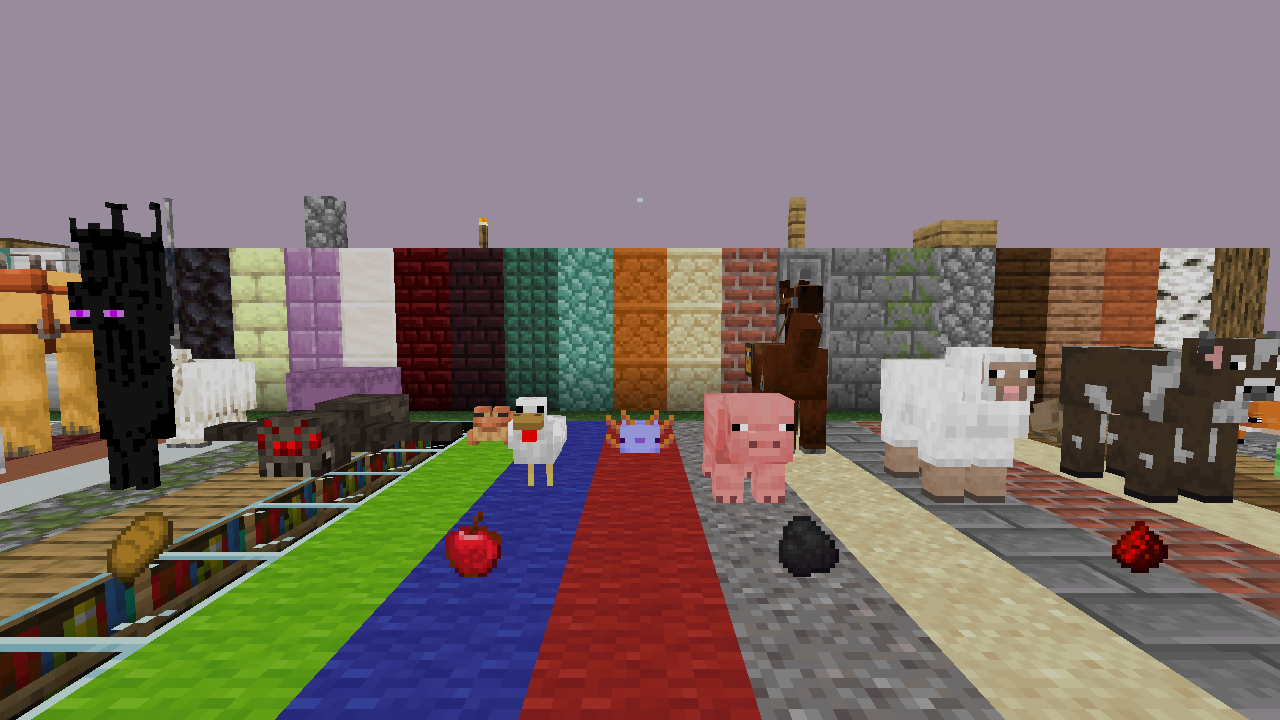
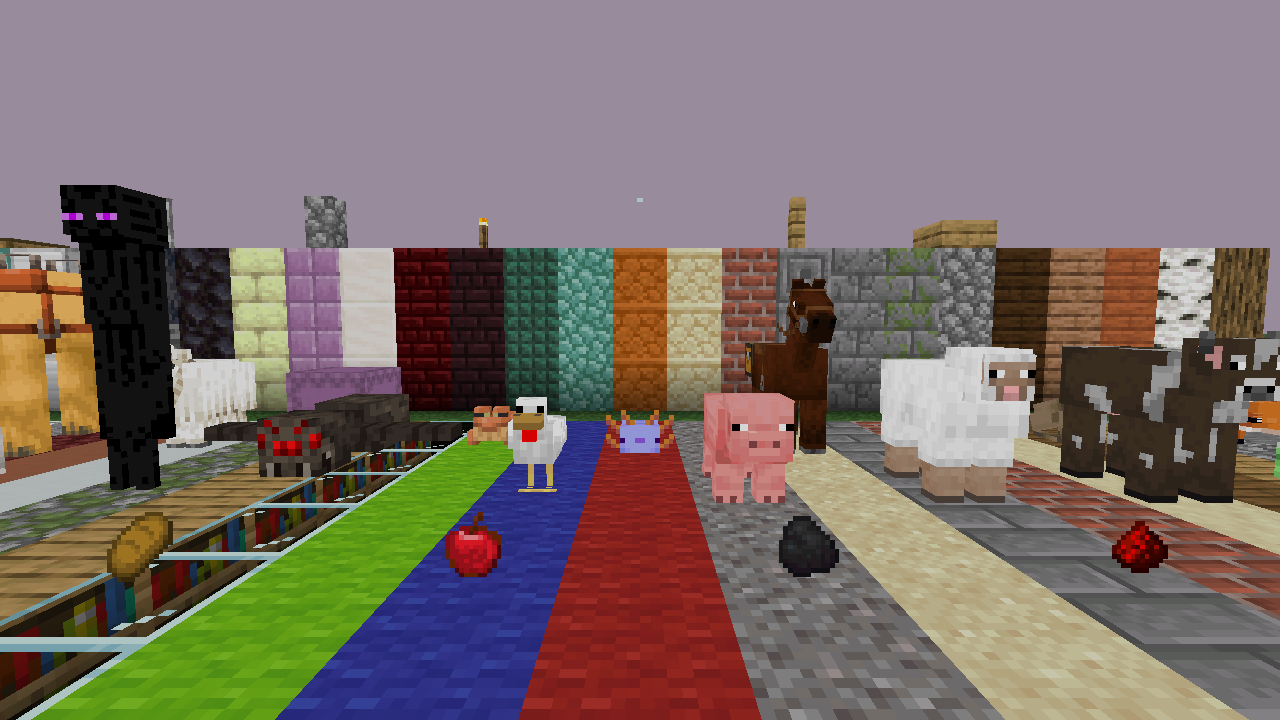
fix(entities): attach horse and enderman heads
Two rotation fields were treated identically, applying each bone's
rotation to its own cubes and never to descendants. They mean different
things:

- bind_pose_rotation reorients a bone's own cubes; descendants are
  authored in the final pose, so it must not propagate. A quadruped's
  body carries [90,0,0] with its head/legs already placed for it;
  propagating tore every quadruped apart.
- rotation is a rest orientation that descendants are authored relative
  to, so it must propagate. The horse's neck tilts 30 deg and its head
  and muzzle were left floating off the neck.

Apply bind_pose_rotation to the bone's own cubes, and carry a chain of
rotation down to each bone's cubes.

The enderman authors its head cube 14 units below the body and lifts it
with animation.enderman.base_pose, an always-on animation we do not run;
its hat already sits at the lifted height. staticPoseOffset nudges that
one bone so the head lands on the body.

Refresh the README arena frames.

diff --git a/src/entityModels.js b/src/entityModels.js
@@ -345,6 +345,15 @@ function loadEntityTexture(texPath) {
 // drawn. Vanilla picks a layer via query.is_sheared, which we don't have.
 const extraGeometryKeys = { sheep: ['sheared'] }
 
+// Some models' static bind pose is not usable on its own: it is corrected by an
+// always-on base-pose animation, which this renderer does not run. Nudge the
+// listed bones' cubes by a model-space offset that reproduces that animation.
+// The enderman authors its head cube 14 units below the body and lifts it with
+// animation.enderman.base_pose; its hat cube already sits at the lifted height.
+const staticPoseOffset = {
+  enderman: { head: [0, 14, 0] }
+}
+
 // Some entity defs key their textures by variant/profession with no "default"
 // (cat, fox, horse, llama, ...). mineflayer doesn't expose the variant, so pick
 // one deterministically: prefer "default", else the first key as authored. Any
@@ -407,6 +416,7 @@ function buildEntityModel(name) {
   const texture = loadEntityTexture(texPath)
   if (!texture) return null
 
+  const poseOffset = staticPoseOffset[base] || staticPoseOffset[name]
   const positions = []
   const uvs = []
   const indices = []
@@ -415,20 +425,41 @@ function buildEntityModel(name) {
   for (const { geometry } of layers) {
     const texW = geometry.texturewidth || 64
     const texH = geometry.textureheight || 64
+    const boneByName = new Map()
+    for (const b of geometry.bones) boneByName.set(b.name.toLowerCase(), b)
 
     for (const bone of geometry.bones) {
       if (bone.neverRender || !bone.cubes) continue
-      // bind-pose / static rotations apply to this bone's own cubes only;
-      // cube pivots in these models are already laid out for the final pose,
-      // so children do not inherit the rotation (matches how the flat static
-      // geometry is authored)
+      const off = poseOffset && poseOffset[bone.name]
       const pivot = bone.pivot || [0, 0, 0]
-      const boneEuler = bone.bind_pose_rotation
+      // Two different rotation fields, two different meanings:
+      // - bind_pose_rotation reorients a bone's own cubes; descendants are
+      //   authored in the final pose, so it must NOT propagate (a quadruped's
+      //   body carries [90,0,0] and its head/legs are already placed for it).
+      // - rotation is the bone's rest orientation and descendants are authored
+      //   relative to it, so it DOES propagate (the horse's neck tilts 30 deg
+      //   and its head/muzzle must follow, or they float off the neck).
+      const bindEuler = bone.bind_pose_rotation
         ? eulerFromDegrees(bone.bind_pose_rotation)
-        : bone.rotation && typeof bone.rotation[0] === 'number'
-          ? eulerFromDegrees(bone.rotation)
-          : null
-      const boneMat = boneEuler ? matFromEuler(boneEuler) : null
+        : null
+      const bindMat = bindEuler ? matFromEuler(bindEuler) : null
+      // `rotation` chain from this bone up to the root, applied innermost-first.
+      const chain = []
+      for (let cur = bone; cur;) {
+        if (
+          !cur.bind_pose_rotation &&
+          cur.rotation &&
+          typeof cur.rotation[0] === 'number'
+        ) {
+          chain.push({
+            mat: matFromEuler(eulerFromDegrees(cur.rotation)),
+            pivot: cur.pivot || [0, 0, 0]
+          })
+        }
+        const parent = cur.parent && boneByName.get(cur.parent.toLowerCase())
+        if (!parent || parent === cur) break
+        cur = parent
+      }
       for (const cube of bone.cubes) {
         // cubes without a uv (leash_knot, tripod_camera) are drawn through a
         // render controller/material, not the texture sheet — skip them
@@ -462,17 +493,29 @@ function buildEntityModel(name) {
               cube.origin[2] +
               pos[2] * cube.size[2] +
               (pos[2] ? inflate : -inflate)
+            if (off) {
+              x += off[0]
+              y += off[1]
+              z += off[2]
+            }
             if (cubeMat) {
               rotateAround(cubeMat, cubePivot, x, y, z, tmp)
               x = tmp[0]
               y = tmp[1]
               z = tmp[2]
             }
-            if (boneMat) {
-              rotateAround(boneMat, pivot, x, y, z, tmp)
+            if (bindMat) {
+              rotateAround(bindMat, pivot, x, y, z, tmp)
               x = tmp[0]
               y = tmp[1]
               z = tmp[2]
+            } else {
+              for (const step of chain) {
+                rotateAround(step.mat, step.pivot, x, y, z, tmp)
+                x = tmp[0]
+                y = tmp[1]
+                z = tmp[2]
+              }
             }
             // mirror x, scale to block units
             positions.push(-x / 16, y / 16, z / 16)

diff --git a/docs/architecture.md b/docs/architecture.md
@@ -85,13 +85,18 @@ cached, and invalidated on block changes and chunk unloads.
 ## Entities
 
 - Mobs and the player use original **Bedrock** geometry, entity definitions and
-  textures from `bedrock-samples`. Only the static bind pose is applied; bone
-  rotations affect a bone's own cubes but do not propagate to children, matching
-  how the flat geometry is authored. Derived geometries
-  (`geometry.child:geometry.parent`) inherit the parent's bones, so a model that
-  only lists its additions (the witch hat on top of the villager) renders with a
-  body. Variant-only models (tropical fish, horse, cat, …) get one deterministic
-  variant.
+  textures from `bedrock-samples`. Only the static bind pose is applied. Two
+  rotation fields mean two things: `bind_pose_rotation` reorients a bone's own
+  cubes only (a quadruped's body carries `[90,0,0]` and its head/legs are
+  authored already placed for it), while `rotation` is a rest orientation whose
+  descendants are authored relative to it, so it propagates down the chain (the
+  horse's neck tilts 30° and its head/muzzle follow). A couple of models are
+  only valid after an always-on base-pose animation that this renderer does not
+  run; `staticPoseOffset` nudges those bones (the enderman's head). Derived
+  geometries (`geometry.child:geometry.parent`) inherit the parent's bones, so a
+  model that only lists its additions (the witch hat on top of the villager)
+  renders with a body. Variant-only models (tropical fish, horse, cat, …) get
+  one deterministic variant.
 - Dropped items have no Bedrock model; they render as a camera-facing sprite of
   the item texture from `minecraft-assets`.
 - Anything without a model/texture pair falls back to a deterministic coloured
